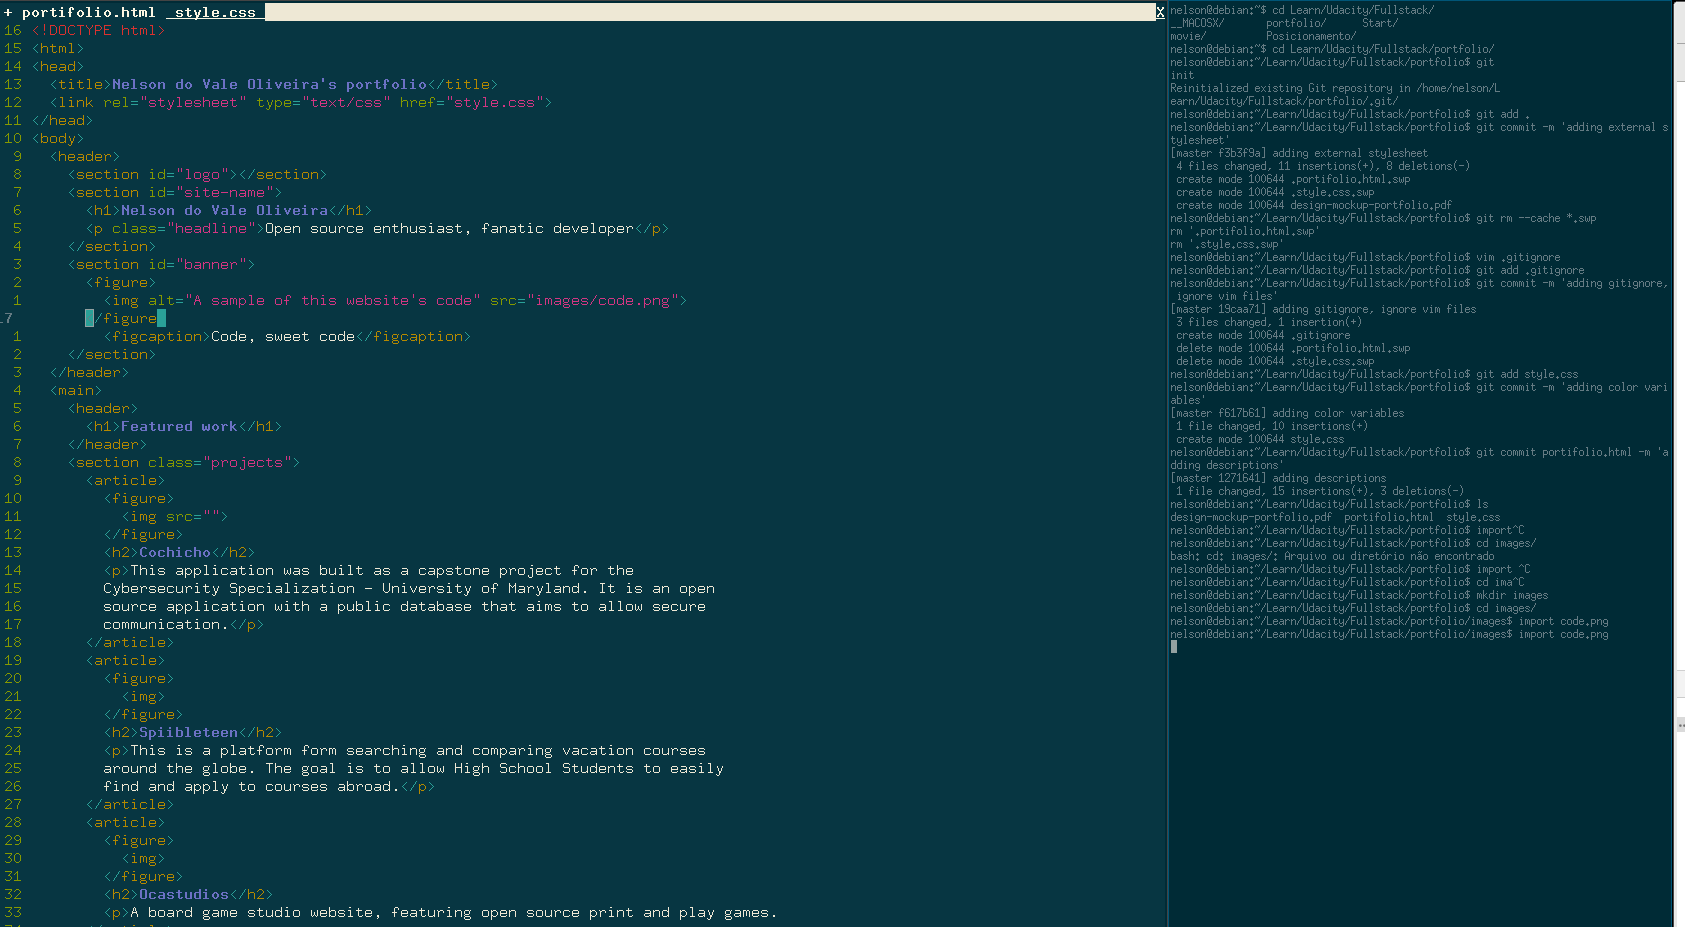
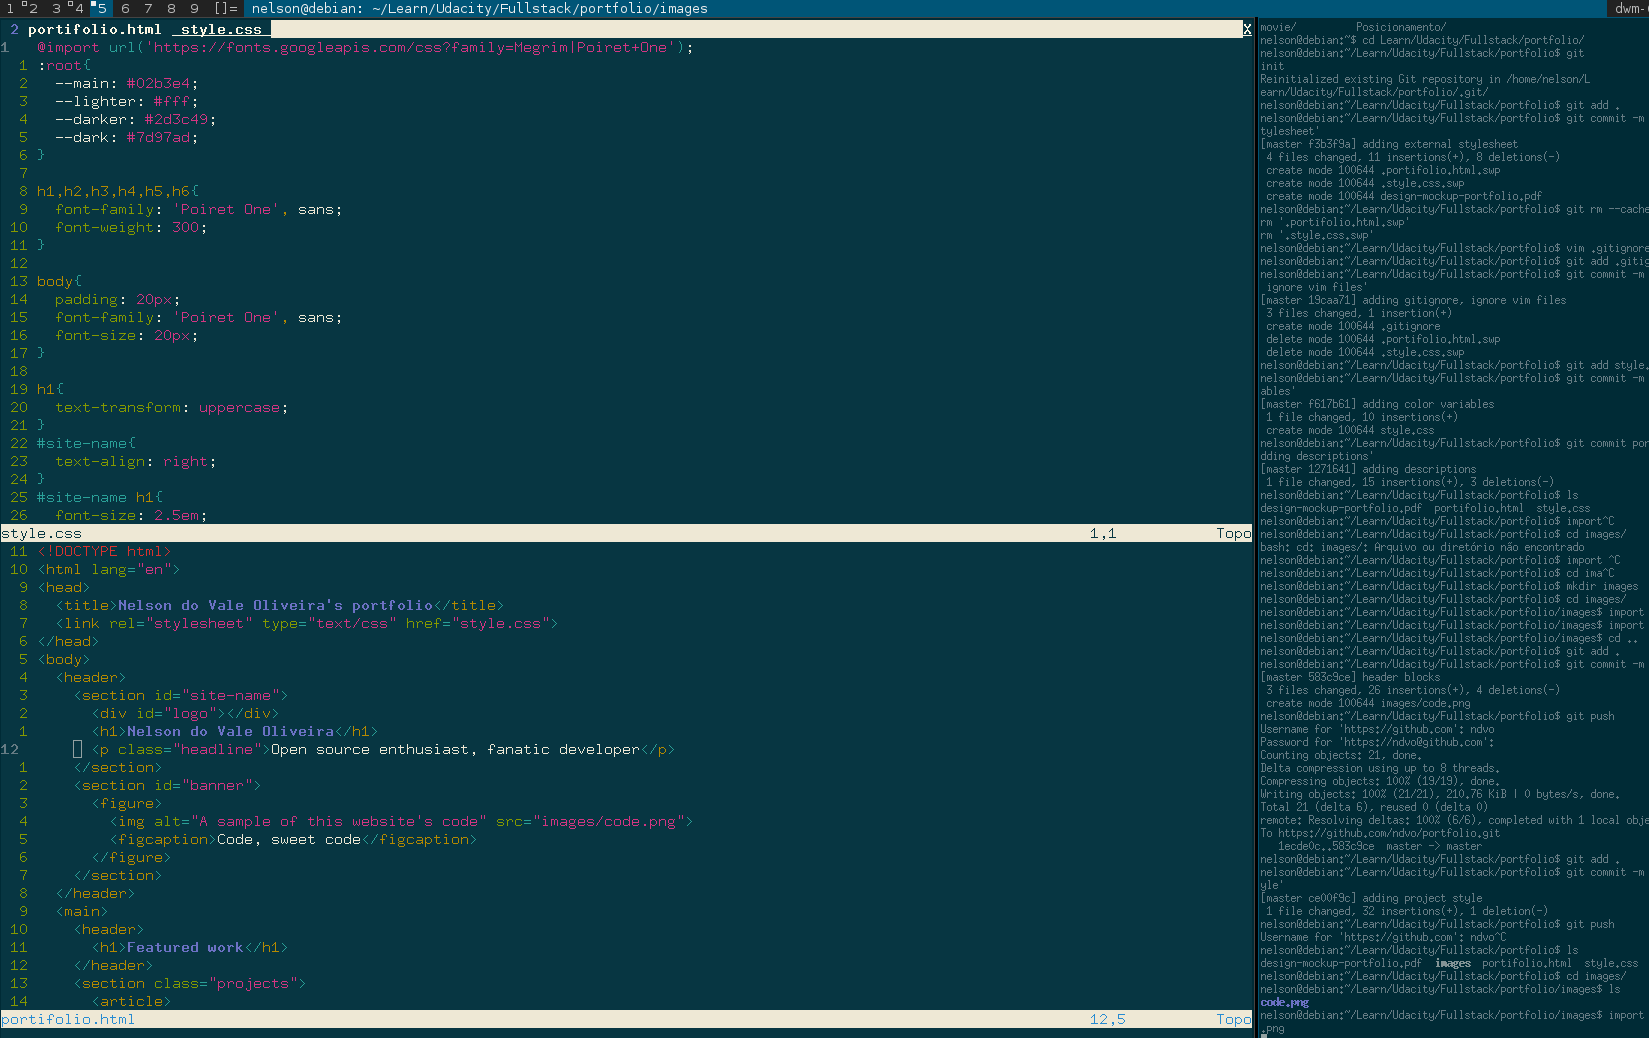
adding styles and checking on validators

diff --git a/portifolio.html b/portifolio.html
@@ -1,6 +1,7 @@
 <!DOCTYPE html>
-<html>
+<html lang="en">
 <head>
+  <meta charset="UTF-8">
   <title>Nelson do Vale Oliveira's portfolio</title>
   <link rel="stylesheet" type="text/css" href="style.css">
 </head>
@@ -12,20 +13,21 @@
       <p class="headline">Open source enthusiast, fanatic developer</p>
     </section>
     <section id="banner">
+      <h2>Happy coding!</h2>
       <figure>
         <img alt="A sample of this website's code" src="images/code.png">
-      </figure>
         <figcaption>Code, sweet code</figcaption>
+      </figure>
     </section>
   </header>
   <main>
-    <header>
-      <h1>Featured work</h1>
-    </header>
     <section class="projects">
+      <header>
+        <h1>Featured work</h1>
+      </header>
       <article>
         <figure>
-          <img src="">
+          <img src="images/cochicho.png" alt="Print screen of the Cochicho web app.">
         </figure>
         <h2>Cochicho</h2>
         <p>This application was built as a capstone project for the
@@ -35,7 +37,7 @@
       </article>
       <article>
         <figure>
-          <img>
+          <img src="images/spiibleteen.png" alt="Print screen of the Spiibleteen.com.br web application.">
         </figure>
         <h2>Spiibleteen</h2>
         <p>This is a platform form searching and comparing vacation courses
@@ -44,30 +46,36 @@
       </article>
       <article>
         <figure>
-          <img>
+          <img src="images/ocastudios.png" alt="jrintscreen of the ocastudios website.">
         </figure>
         <h2>Ocastudios</h2>
         <p>A board game studio website, featuring open source print and play games.
       </article>
     </section>
     <section class="findme">
+      <header>
+        <h1>Find me</h1>
+      </header>
       <article>
         <figure>
-          <img>
+          <img src="images/github.png" alt="My GitHub: find projects I'm working on and give me a hand.">
         </figure>
-        <h2>Github</h2>
+        <h2>Hackerrank</h2>
+        <p>Find me on <a href="http://github.com/ndvo">http://github.com/ndvo</a> and let's code some stuff.</p>
       </article>
       <article>
         <figure>
-          <img>
+          <img src="images/hackerrank.png" alt="Hackerrank's website printscreen">
         </figure>
         <h2>Codepen</h2>
+        <p>Let's play try some challenges in <a href="http://www.hackerrank.com/nelson3">hackerrank.com/nelson3</a></p>
       </article>
       <article>
         <figure>
-          <img>
+          <img src="images/linkedin.png" alt="Here I am on LinkedIn. Read my CV and skills.">
         </figure>
         <h2>LinkedIn</h2>
+        <p>Or perhaps we can exchange experiences in <a href="http://linkedin.com/in/ndvo">linkedin.com/ndvo.</a></p>
       </article>
     </section>
   </main>

diff --git a/style.css b/style.css
@@ -1,4 +1,4 @@
-@import url('https://fonts.googleapis.com/css?family=Megrim|Poiret+One');
+@import url('https://fonts.googleapis.com/css?family=Alegreya+Sans:100|Megrim|Poiret+One');
 :root{
   --main: #02b3e4;
   --lighter: #fff;
@@ -12,9 +12,9 @@ h1,h2,h3,h4,h5,h6{
 }
 
 body{
-  padding: 20px;
-  font-family: 'Poiret One', sans;
+  font-family: 'Alegreya Sans', sans;
   font-size: 20px;
+  padding: 20px;
 }
 
 h1{
@@ -26,6 +26,12 @@ h1{
 #site-name h1{
   font-size: 2.5em;
 }
+
+body{
+  margin: 0 auto;
+  max-width: 1240px;
+}
+
 body>header section{
   padding: 40px 0;
 }
@@ -37,27 +43,34 @@ body>header section{
   overflow: hidden;
 }
 figure{
-  width: 100%;
-  margin-block-start: 0;
-  margin-inline-start: 0;
-  margin-inline-end: 0;
   margin-block-end: 0;
+  margin-block-start: 0;
+  margin-inline-end: 0;
+  margin-inline-start: 0;
+  width: 100%;
 }
 figure img{
+  height: 100%;
   object-fit: cover;
+  width: 100%;
 }
+
 section.projects,
 section.findme{
   display: flex;
+  flex-wrap:wrap;
   justify-content: space-between;
 }
 section.findme article,
 section.projects article{
   flex-basis: 33%;
 }
-
+main header{
+  flex: 0 0 100%;
+  width: 100%;
+}
 section article figure{
   background: var(--dark);
-  min-height: 200px;
+  height: 200px;
 }
 
